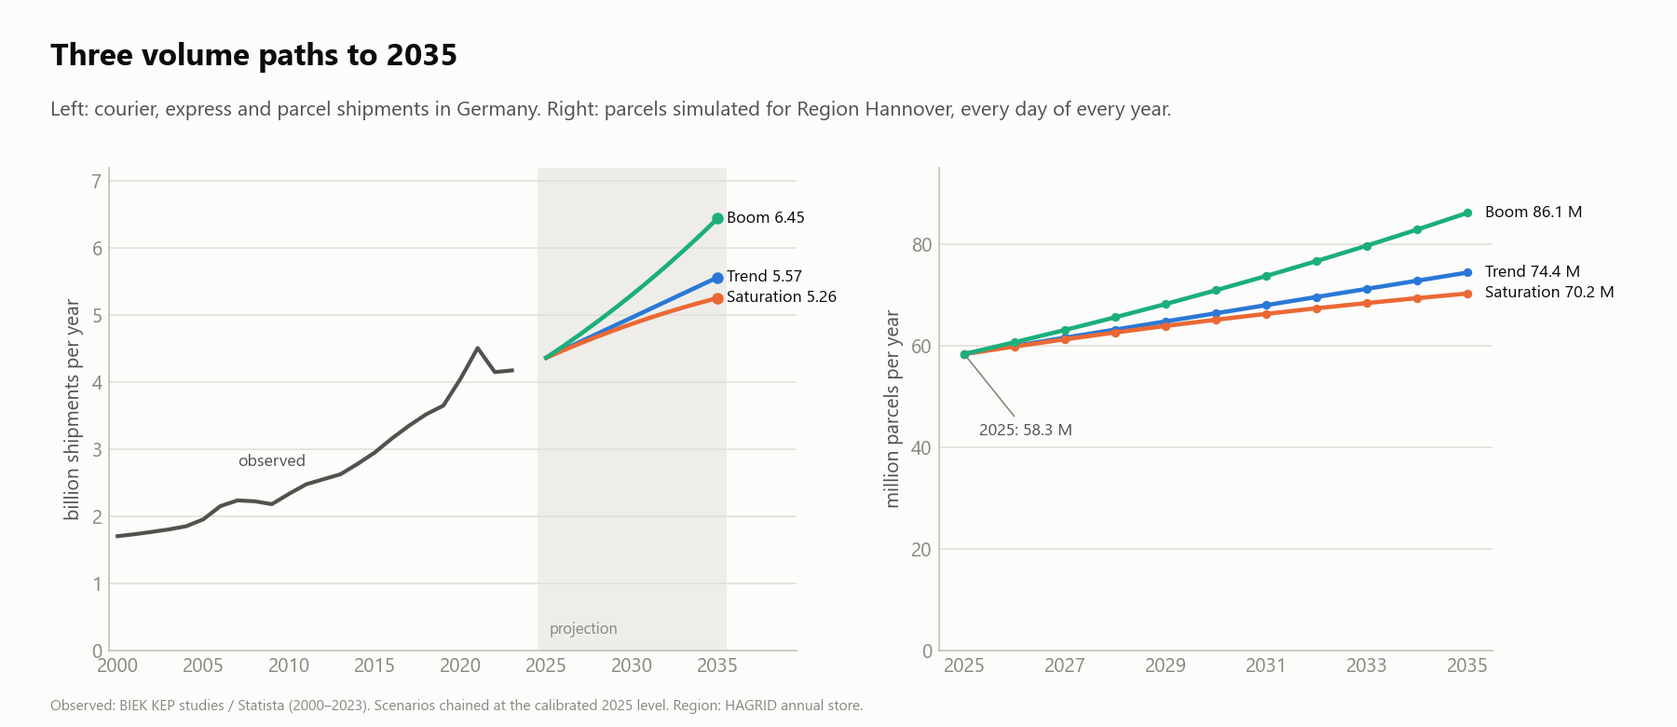
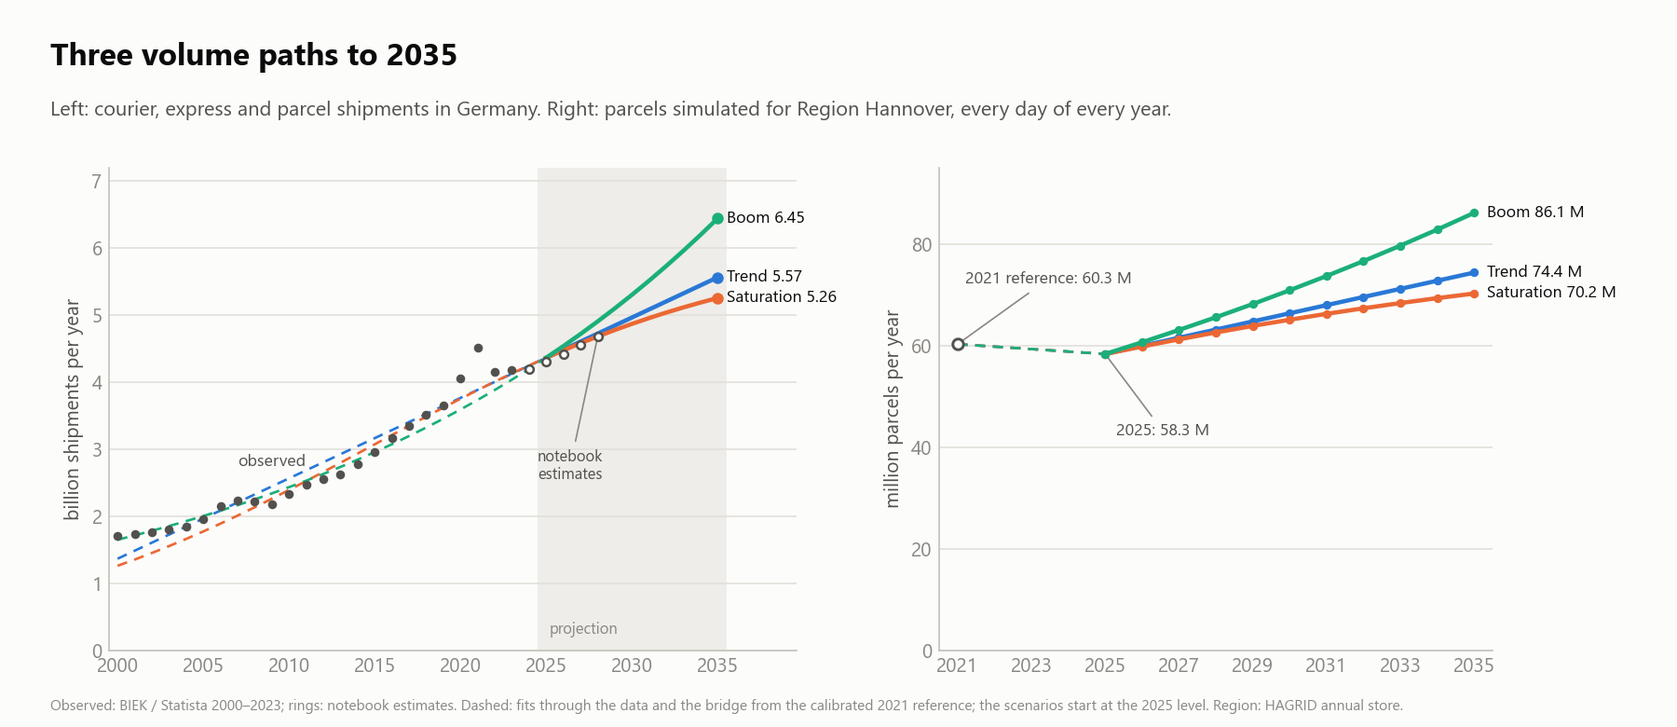
feat(decade-dashboard): show how the volume paths meet the observed data
The national chart showed the observed volumes until 2023 and the scenario
paths from 2025, with nothing in between. It now draws each scenario's fitted
curve through the observed years up to its start (the trend path is the
linear fit itself; chained scenarios follow their candidate curve scaled to
the 2025 level), the notebook estimates 2024-2028 as rings, and the regional
chart starts at the calibrated 2021 reference (60.3 M parcels) with a dashed
bridge to 2025. Payload: national.estimates, scenarios[*].fit and the
scenarios' meta reference. Tables and tooltips list the new values.

The hexagon figure gives the growth figures with one decimal (region +27.5 %,
city +27.9 %, towns +27.1 %; rounded they all read +28 / +28 / +27) and says
that its colours count hexagons: many outer city hexagons grow faster, while
the dense core, a third of the city's parcels, grows slower. README numbers,
figures and dashboard screenshots updated.

diff --git a/hagrid/demand/model/src/hagrid_demand/baseline/templates/decade_dashboard.html b/hagrid/demand/model/src/hagrid_demand/baseline/templates/decade_dashboard.html
@@ -186,12 +186,12 @@ footer{margin-top:44px;padding-top:14px;border-top:1px solid var(--line);color:v
         <div class="fig-head"><div><h3>Germany, billion parcels per year</h3><p class="sub">Observed volumes and the three scenario paths</p></div></div>
         <div class="legend" id="lg-national"></div>
         <div class="chart" id="ch-national"></div>
-        <p class="cap">Dots: observed national volumes (Statista and BIEK, notebook 02). Lines: scenario paths from the first simulated year, labelled with the value in the last year and the compound annual growth rate. The selected scenario is blue; the band marks the selected year. Click a year to select it.</p>
+        <p class="cap">Dots: observed national volumes (Statista and BIEK, notebook 02); rings: the notebook estimates 2024–2028, which the saturation and boom fits include. Dashed: each scenario's fitted curve over the observed years up to its first simulated year, where the path starts; solid: the scenario paths, labelled with the value in the last year and the compound annual growth rate. The selected scenario is blue; the band marks the selected year. Click a year to select it.</p>
       </figure>
       <figure class="panel s5">
         <div class="fig-head"><div><h3>Region Hannover, simulated parcels</h3><p class="sub">Sum of all simulated days per year</p></div></div>
         <div class="chart" id="ch-regional"></div>
-        <p class="cap">The regional volume follows the national path of each scenario (2021 reference scaled by the national ratio), then carriers, days and addresses are drawn.</p>
+        <p class="cap">The ring is the calibrated 2021 reference (LSP street volumes extrapolated to all carriers). From it the regional volume follows the national path of each scenario (dashed: scaled by the national ratio up to the first simulated year), then carriers, days and addresses are drawn.</p>
       </figure>
     </div>
     <details class="tv"><summary>Table: national and regional volume per scenario</summary><div id="tv-growth"></div></details>
@@ -411,7 +411,7 @@ function niceMax(v) { if (!(v > 0)) return 1; const e = Math.pow(10, Math.floor(
 function ticks(max, n) { const st = niceMax(max / n), o = []; for (let v = 0; v <= max + st * 1e-6; v += st) o.push(v); return o; }
 function runs(flags) { const o = []; let a = -1; flags.forEach((f, i) => { if (f && a < 0) a = i; if (!f && a >= 0) { o.push([a, i - 1]); a = -1; } }); if (a >= 0) o.push([a, flags.length - 1]); return o; }
 function barPath(x, y, w, hgt, r) { if (!(hgt > 0)) return ''; r = Math.min(r, w / 2, hgt); return 'M' + x + ',' + (y + hgt) + 'V' + (y + r) + 'Q' + x + ',' + y + ' ' + (x + r) + ',' + y + 'H' + (x + w - r) + 'Q' + (x + w) + ',' + y + ' ' + (x + w) + ',' + (y + r) + 'V' + (y + hgt) + 'Z'; }
-function legend(host, items) { host.replaceChildren(...items.map(it => h('span', {class: 'li'}, h('i', {class: it.kind === 'line' ? 'lk' + (it.dash ? ' dash' : '') : it.kind === 'dot' ? 'dot-k' : 'sw', style: (it.kind === 'line' ? 'border-color:' : 'background:') + it.color}), it.label))); }
+function legend(host, items) { host.replaceChildren(...items.map(it => h('span', {class: 'li'}, h('i', {class: it.kind === 'line' ? 'lk' + (it.dash ? ' dash' : '') : it.kind === 'dot' || it.kind === 'ring' ? 'dot-k' : 'sw', style: it.kind === 'ring' ? 'background:transparent;box-sizing:border-box;border:2px solid ' + it.color : (it.kind === 'line' ? 'border-color:' : 'background:') + it.color}), it.label))); }
 function tableView(host, head, rows, opt = {}) {
   const body = rows.map(r => h('tr', {class: opt.on && opt.on(r) ? 'on' : null}, r.cells.map((c, i) => h('td', {class: i < (opt.left || 1) ? 'l' : (opt.wrap === i ? 'wrap l' : null)}, c))));
   host.replaceChildren(h('div', {class: 'tbl'}, h('table', null, h('thead', null, h('tr', null, head.map((t, i) => h('th', {class: i < (opt.left || 1) || opt.wrap === i ? 'l' : null}, t)))), h('tbody', null, body))));
@@ -615,14 +615,22 @@ function renderHero() {
 function renderGrowth() {
   const nat = D.national, sel = state.scenario, order = NAMES.filter(n => n !== sel).concat([sel]);
   const color = n => n === sel ? 'var(--all)' : 'var(--other-line)';
-  legend($('lg-national'), [{kind: 'dot', color: 'var(--obs)', label: 'observed'}, {kind: 'line', color: 'var(--all)', label: label(sel)}].concat(NAMES.length > 1 ? [{kind: 'line', color: 'var(--other-line)', label: 'other scenarios'}] : []));
-  // national fan: observed anchors and every scenario from the first simulated year on
+  const est = nat.estimates || {years: [], values: []};
+  legend($('lg-national'), [{kind: 'dot', color: 'var(--obs)', label: 'observed'}].concat(est.years.length ? [{kind: 'ring', color: 'var(--obs)', label: 'notebook estimate'}] : [],
+    [{kind: 'line', color: 'var(--all)', label: label(sel)}, {kind: 'line', dash: true, color: 'var(--all)', label: 'fitted through the data'}],
+    NAMES.length > 1 ? [{kind: 'line', color: 'var(--other-line)', label: 'other scenarios'}] : []));
+  // national fan: observed anchors, notebook estimates, every scenario's fit over the observed years (dashed) and its
+  // path from the first simulated year on (solid)
   const box = $('ch-national'), narrow = box.clientWidth < 540, x0 = Math.min(nat.observed.years[0] || Y0, Y0);
-  const paths = {}; NAMES.forEach(n => { const S = nat.scenarios[n]; paths[n] = S ? S.years.map((yr, i) => [yr, S.values[i]]).filter(([yr]) => yr >= Y0 && yr <= YN) : []; });
-  const max = Math.max(1, ...nat.observed.values, ...NAMES.flatMap(n => paths[n].map(p => p[1])));
+  const paths = {}, fits = {}; NAMES.forEach(n => { const S = nat.scenarios[n]; paths[n] = S ? S.years.map((yr, i) => [yr, S.values[i]]).filter(([yr]) => yr >= Y0 && yr <= YN) : [];
+    fits[n] = S && S.fit ? S.fit.years.map((yr, i) => [yr, S.fit.values[i]]).filter(([yr]) => yr >= x0 && yr <= Y0) : []; });
+  const max = Math.max(1, ...nat.observed.values, ...est.values, ...NAMES.flatMap(n => paths[n].concat(fits[n]).map(p => p[1])));
   const F = frame(box, {x0, x1: YN, max, height: 290, margin: {r: narrow ? 50 : 150}, fmt: t => dec(t, 1), label: 'National parcel volume in billions'});
   marker(F, state.year);
+  const pathOf = pts => pts.map((p, i) => (i ? 'L' : 'M') + F.x(p[0]).toFixed(1) + ',' + F.y(p[1]).toFixed(1)).join('');
+  order.forEach(n => { if (fits[n].length > 1) s('path', {d: pathOf(fits[n]), fill: 'none', stroke: color(n), 'stroke-width': n === sel ? 1.8 : 1.4, 'stroke-dasharray': '5 4', 'stroke-linecap': 'round'}, F.v); });
   nat.observed.years.forEach((yr, i) => s('circle', {cx: F.x(yr), cy: F.y(nat.observed.values[i]), r: 4, fill: 'var(--obs)', stroke: 'var(--surface)', 'stroke-width': 2}, F.v));
+  est.years.forEach((yr, i) => { if (yr <= YN) s('circle', {cx: F.x(yr), cy: F.y(est.values[i]), r: 3.5, fill: 'var(--surface)', stroke: 'var(--obs)', 'stroke-width': 1.6}, F.v); });
   order.forEach(n => { const pts = paths[n]; if (!pts.length) return; const on = n === sel;
     s('path', {d: pts.map((p, i) => (i ? 'L' : 'M') + F.x(p[0]).toFixed(1) + ',' + F.y(p[1]).toFixed(1)).join(''), fill: 'none', stroke: color(n), 'stroke-width': on ? 2.5 : 2, 'stroke-linejoin': 'round', 'stroke-linecap': 'round'}, F.v);
     const last = pts[pts.length - 1]; s('circle', {cx: F.x(last[0]), cy: F.y(last[1]), r: 4, fill: color(n), stroke: 'var(--surface)', 'stroke-width': 2}, F.v); });
@@ -630,23 +638,33 @@ function renderGrowth() {
     return {y: F.y(last[1]), text: narrow ? dec(last[1], 2) : label(n) + ' · ' + dec(last[1], 2) + ' · ' + signed(g && g.cagr) + '/yr', priority: n === sel ? 2 : 1, strong: n === sel}; }));
   const span = []; for (let yr = x0; yr <= YN; yr++) span.push(yr);
   crosshair(F, span, (t, yr) => { t.append(...tH(String(yr), 'billion parcels in Germany')); const o = nat.observed.years.indexOf(yr); if (o >= 0) t.appendChild(tR(dec(nat.observed.values[o], 3), 'observed', 'var(--obs)'));
+    const e = est.years.indexOf(yr); if (e >= 0) t.appendChild(tR(dec(est.values[e], 3), 'notebook estimate', 'var(--obs)'));
+    const f = fits[sel].find(q => q[0] === yr); if (f && yr < Y0) t.appendChild(tR(dec(f[1], 3), label(sel) + ' fit', color(sel)));
     NAMES.forEach(n => { const p = paths[n].find(q => q[0] === yr); if (p) t.appendChild(tR(dec(p[1], 3), label(n), color(n))); }); });
-  // regional fan: simulated parcels per scenario
+  // regional fan: the calibrated reference year, bridged (dashed) to every scenario's simulated parcels
   const rb = $('ch-regional'), rnarrow = rb.clientWidth < 540, reg = {}; NAMES.forEach(n => { reg[n] = series(n, A => A.parcels); });
-  const R = frame(rb, {max: Math.max(1, ...NAMES.flatMap(n => reg[n].filter(ok))), height: 290, margin: {r: rnarrow ? 50 : 132}, fmt: short, label: 'Simulated parcels in Region Hannover'});
+  const ref = (scenario(sel) || {}).reference, rx0 = ref && ref.year < Y0 ? ref.year : Y0;
+  const R = frame(rb, {x0: rx0, max: Math.max(1, ...NAMES.flatMap(n => reg[n].filter(ok)), ref ? ref.parcels : 0), height: 290, margin: {r: rnarrow ? 50 : 132}, fmt: short, label: 'Simulated parcels in Region Hannover'});
   marker(R, state.year);
+  if (ref && rx0 < Y0) {
+    order.forEach(n => { if (ok(reg[n][0])) s('path', {d: 'M' + R.x(ref.year).toFixed(1) + ',' + R.y(ref.parcels).toFixed(1) + 'L' + R.x(Y0).toFixed(1) + ',' + R.y(reg[n][0]).toFixed(1), fill: 'none', stroke: color(n), 'stroke-width': n === sel ? 1.8 : 1.4, 'stroke-dasharray': '5 4', 'stroke-linecap': 'round'}, R.v); });
+    s('circle', {cx: R.x(ref.year), cy: R.y(ref.parcels), r: 4.5, fill: 'var(--surface)', stroke: 'var(--obs)', 'stroke-width': 2}, R.v);
+    s('text', {x: R.x(ref.year) + 8, y: R.y(ref.parcels) - 9, class: 'lbl', text: ref.year + ' reference ' + short(ref.parcels)}, R.v);
+  }
   order.forEach(n => { const on = n === sel; s('path', {d: linePath(R, reg[n]), fill: 'none', stroke: color(n), 'stroke-width': on ? 2.5 : 2, 'stroke-linejoin': 'round', 'stroke-linecap': 'round'}, R.v);
     reg[n].forEach((v, i) => { if (ok(v) && (YEARS[i] === state.year || i === reg[n].length - 1)) s('circle', {cx: R.x(YEARS[i]), cy: R.y(v), r: 4, fill: color(n), stroke: 'var(--surface)', 'stroke-width': 2}, R.v); }); });
   endLabels(R, NAMES.map(n => { const i = reg[n].map(ok).lastIndexOf(true), g = scenario(n).regional; if (i < 0) return null;
     return {y: R.y(reg[n][i]), text: rnarrow ? label(n) + ' ' + short(reg[n][i]) : label(n) + ' · ' + short(reg[n][i]) + ' · ' + signed(g && g.cagr) + '/yr', priority: n === sel ? 2 : 1, strong: n === sel}; }));
-  crosshair(R, YEARS, (t, yr) => { const i = YEARS.indexOf(yr); t.append(...tH(String(yr), 'simulated parcels')); NAMES.forEach(n => t.appendChild(tR(ok(reg[n][i]) ? int(reg[n][i]) : 'not simulated', label(n), color(n)))); });
+  crosshair(R, (ref && rx0 < Y0 ? [ref.year] : []).concat(YEARS), (t, yr) => { const i = YEARS.indexOf(yr);
+    if (ref && yr === ref.year && i < 0) { t.append(...tH(String(yr), 'calibrated reference year')); t.appendChild(tR(int(ref.parcels), 'LSP street volumes, all carriers', 'var(--obs)')); return; }
+    t.append(...tH(String(yr), 'simulated parcels')); NAMES.forEach(n => t.appendChild(tR(ok(reg[n][i]) ? int(reg[n][i]) : 'not simulated', label(n), color(n)))); });
   // finding and table
   const gs = SCEN.filter(item => item.national);
   $('f-growth').replaceChildren('Nationally the scenarios reach ', h('b', {text: gs.map(item => dec(item.national.to, 2) + ' billion (' + item.label + ')').join(', ').replace(/, ([^,]*)$/, ' and $1')}), ' parcels in ' + YN + ', ' +
     gs.map(item => signed(item.national.cagr) + ' a year').join(' / ') + ' from ' + (gs[0] ? gs[0].national.from_year : Y0) + '. In the region the ' + label(sel) + ' scenario grows from ' + short(reg[sel][0]) + ' to ' + short(reg[sel][reg[sel].length - 1]) + ' parcels.');
-  const allYears = Array.from(new Set(nat.observed.years.filter(yr => yr >= 2019).concat(YEARS))).sort((a, b) => a - b);
-  tableView($('tv-growth'), ['Year', 'Observed (bn)'].concat(NAMES.map(n => label(n) + ' national (bn)'), NAMES.map(n => label(n) + ' region')),
-    allYears.map(yr => ({yr, cells: [String(yr), dec(nat.observed.values[nat.observed.years.indexOf(yr)], 3)].concat(NAMES.map(n => { const p = paths[n].find(q => q[0] === yr); return p ? dec(p[1], 3) : '–'; }), NAMES.map(n => int(reg[n][YEARS.indexOf(yr)])))})),
+  const allYears = Array.from(new Set(nat.observed.years.filter(yr => yr >= 2019).concat(est.years.filter(yr => yr <= YN), YEARS))).sort((a, b) => a - b);
+  tableView($('tv-growth'), ['Year', 'Observed (bn)', 'Notebook estimate (bn)'].concat(NAMES.map(n => label(n) + ' national (bn)'), NAMES.map(n => label(n) + ' region')),
+    allYears.map(yr => ({yr, cells: [String(yr), dec(nat.observed.values[nat.observed.years.indexOf(yr)], 3), est.years.includes(yr) ? dec(est.values[est.years.indexOf(yr)], 3) : '–'].concat(NAMES.map(n => { const p = paths[n].find(q => q[0] === yr); return p ? dec(p[1], 3) : '–'; }), NAMES.map(n => int(reg[n][YEARS.indexOf(yr)])))})),
     {on: r => r.yr === state.year});
 }
 

diff --git a/docs/images/demand/make_figures.py b/docs/images/demand/make_figures.py
@@ -187,8 +187,8 @@ def save(fig, out: Path, name: str, mode: str) -> Path:
     return path
 
 
-def signed(value: float) -> str:
-    return f"{value * 100:+.0f} %"
+def signed(value: float, digits: int = 0) -> str:
+    return f"{value * 100:+.{digits}f} %"
 
 
 # --- figures ----------------------------------------------------------------------------------------------------------
@@ -212,7 +212,7 @@ def hexagon_change(payload: dict, region: Region, theme: dict, out: Path, mode: 
     height = 7.8
     fig = figure(height, "Where parcel demand grows until 2035",
                  f"Scenario {LABEL.get(name, name)} with land use · expected parcels per delivery day {first} → {last} in 800 m "
-                 f"hexagons, compared with the regional growth of {signed(growth - 1)}", theme)
+                 f"hexagons, compared with the regional growth of {signed(growth - 1, 1)}", theme)
     bottom, span = band(height, 1.05, .35)
     ax = fig.add_axes([.01, bottom, .67, span])
     region.districts.plot(ax=ax, facecolor=theme["land"], edgecolor="none", zorder=1)
@@ -229,12 +229,13 @@ def hexagon_change(payload: dict, region: Region, theme: dict, out: Path, mode: 
         city, umland = kinds == "city", kinds == "umland"
         moved = plain[city].sum() - total[last][city].sum()         # > 0: land use moves parcels out of the city
         direction = "from the city to the towns" if moved >= 0 else "from the towns to the city"
-        rows = [(signed(growth - 1), "Region Hannover"),
-                (signed(total[last][city].sum() / total[first][city].sum() - 1), "City of Hannover"),
-                (signed(total[last][umland].sum() / total[first][umland].sum() - 1), "20 surrounding towns"),
+        rows = [(signed(growth - 1, 1), "Region Hannover"),
+                (signed(total[last][city].sum() / total[first][city].sum() - 1, 1), "City of Hannover"),
+                (signed(total[last][umland].sum() / total[first][umland].sum() - 1, 1), "20 surrounding towns"),
                 (f"{abs(moved):,.0f}", f"parcels per day that land use\nshifts {direction}")]
         key_figures(panel, y - .05, rows, theme, f"Parcels per delivery day {first} → {last}")
-    source(fig, "HAGRID demand model · districts of the population forecast 2025–2035 · © OpenStreetMap contributors", theme)
+    source(fig, "Colours count hexagons; the growth figures weight them by parcels. HAGRID demand model · districts of the "
+           "population forecast 2025–2035 · © OpenStreetMap contributors", theme)
     return save(fig, out, "hexagon-change", mode)
 
 
@@ -246,29 +247,43 @@ def volume_scenarios(payload: dict, theme: dict, out: Path, mode: str) -> Path:
                  "Right: parcels simulated for Region Hannover, every day of every year.", theme)
     bottom, span = band(height, 1.2, .55)
     left, right = fig.add_axes([.065, bottom, .41, span]), fig.add_axes([.56, bottom, .33, span])
-    observed = national["observed"]
+    observed, estimates = national["observed"], national.get("estimates") or {"years": [], "values": []}
     left.axvspan(years[0] - .5, years[-1] + .5, color=theme["grid"], alpha=.5, linewidth=0, zorder=0)
-    left.plot(observed["years"], observed["values"], color=theme["ink2"], linewidth=2, zorder=3)
+    left.plot(observed["years"], observed["values"], "o", color=theme["ink2"], markersize=3.6, zorder=6)
+    left.plot(estimates["years"], estimates["values"], "o", markerfacecolor=theme["surface"], markeredgecolor=theme["ink2"],
+              markersize=4.2, markeredgewidth=1.2, linestyle="none", zorder=6)
     left.text(2009, 2.75, "observed", color=theme["ink2"], fontsize=8.5, ha="center")
+    if estimates["years"]:
+        left.annotate("notebook\nestimates", (estimates["years"][-1], estimates["values"][-1]), xytext=(2026.4, 2.55),
+                      color=theme["ink2"], fontsize=8, ha="center",
+                      arrowprops={"arrowstyle": "-", "color": theme["muted"], "linewidth": .8})
     left.text(years[0] + .2, .25, "projection", color=theme["muted"], fontsize=8)
+    reference = next((item.get("reference") for item in payload["meta"]["scenarios"] if item.get("reference")), None)
     for index, (key, label) in enumerate(SCENARIOS):
         series = national["scenarios"].get(key)
         if not series:
             continue
         xs, ys = zip(*[(year, value) for year, value in zip(series["years"], series["values"]) if year >= years[0]])
         color = theme["series"][index]
+        fit = series.get("fit")
+        if fit:
+            left.plot(fit["years"], fit["values"], color=color, linewidth=1.3, linestyle=(0, (4, 3)), zorder=3)
         left.plot(xs, ys, color=color, linewidth=2.2, zorder=4)
         left.plot([xs[-1]], [ys[-1]], "o", color=color, markersize=5, zorder=5)
         left.text(xs[-1] + .5, ys[-1], f"{label} {ys[-1]:.2f}", color=theme["ink"], fontsize=8.5, va="center")
         values = [annual[key][str(year)]["parcels"] / 1e6 if (annual.get(key) or {}).get(str(year)) else np.nan for year in years]
+        if reference:
+            right.plot([reference["year"], years[0]], [reference["parcels"] / 1e6, values[0]], color=color, linewidth=1.3,
+                       linestyle=(0, (4, 3)), zorder=3)
         right.plot(years, values, color=color, linewidth=2.2, marker="o", markersize=3.5, zorder=4)
         right.text(years[-1] + .35, values[-1], f"{label} {values[-1]:.1f} M", color=theme["ink"], fontsize=8.5, va="center")
     left.set_xlim(1999.5, years[-1] + 4.6)
     left.set_xticks([2000, 2005, 2010, 2015, 2020, 2025, 2030, 2035])
     left.set_ylim(0, 7.2)
     left.set_ylabel("billion shipments per year")
-    right.set_xlim(years[0] - .5, years[-1] + .5)
-    year_axis(right, years)
+    first = reference["year"] if reference else years[0]
+    right.set_xlim(first - .5, years[-1] + .5)
+    year_axis(right, list(range(first, years[-1] + 1)))
     right.set_ylim(0, 95)
     right.set_ylabel("million parcels per year")
     right.set_clip_on(False)
@@ -279,8 +294,15 @@ def volume_scenarios(payload: dict, theme: dict, out: Path, mode: str) -> Path:
     start = annual[SCENARIOS[0][0]][str(years[0])]["parcels"] / 1e6
     right.annotate(f"{years[0]}: {start:.1f} M", (years[0], start), xytext=(years[0] + .3, start - 16), color=theme["ink2"], fontsize=8.5,
                    arrowprops={"arrowstyle": "-", "color": theme["muted"], "linewidth": .8})
-    source(fig, "Observed: BIEK KEP studies / Statista (2000–2023). Scenarios chained at the calibrated 2025 level. "
-           "Region: HAGRID annual store.", theme)
+    if reference:
+        value = reference["parcels"] / 1e6
+        right.plot([reference["year"]], [value], "o", markerfacecolor=theme["surface"], markeredgecolor=theme["ink2"],
+                   markersize=5.5, markeredgewidth=1.4, zorder=6)
+        right.annotate(f"{reference['year']} reference: {value:.1f} M", (reference["year"], value),
+                       xytext=(reference["year"] + .2, value + 12), color=theme["ink2"], fontsize=8.5,
+                       arrowprops={"arrowstyle": "-", "color": theme["muted"], "linewidth": .8})
+    source(fig, "Observed: BIEK / Statista 2000–2023; rings: notebook estimates. Dashed: fits through the data and the bridge "
+           "from the calibrated 2021 reference; the scenarios start at the 2025 level. Region: HAGRID annual store.", theme)
     return save(fig, out, "volume-scenarios", mode)
 
 

diff --git a/hagrid/demand/model/src/hagrid_demand/baseline/decade_dashboard.py b/hagrid/demand/model/src/hagrid_demand/baseline/decade_dashboard.py
@@ -298,12 +298,39 @@ def _carriers(loaded: dict[str, dict | None], primary: str) -> list[str]:
     return sorted(present, key=lambda carrier: (-shares.get(carrier, 0.), carrier))
 
 
+def _fit_history(inputs: dict, config: dict, scenario: dict) -> dict | None:
+    """A scenario's fitted curve from the first observed year to its start year, in billion parcels.
+
+    The trend path is the linear fit of the observed volumes itself; a chained scenario follows its candidate curve
+    scaled to the level of its start year (``apply_volume_scenario``), so the chart shows how each path meets the data.
+    """
+    from .series import _volume
+
+    starts = [year for year, status in zip(scenario["years"], scenario["status"]) if status != "observed"]
+    if not starts:
+        return None
+    start = starts[0]
+    block = (config or {}).get("volume_scenario")
+    policy = block["policy"] if isinstance(block, dict) else (config or {}).get("volume_fit_policy", "observed_only")
+    curve = block["curve"] if isinstance(block, dict) else "linear"
+    first = min(int(row["year"]) for row in inputs["volume_inputs"]["anchors"])
+    frame = _volume(inputs, list(range(first, start + 1)), policy).set_index("year")[curve]
+    if not np.isfinite(frame.to_numpy(float)).all() or frame.loc[start] <= 0:
+        return None
+    level = scenario["values"][scenario["years"].index(start)] / float(frame.loc[start])
+    return {"years": [int(year) for year in frame.index], "values": [round(float(value) * level, 4) for value in frame],
+            "curve": curve}
+
+
 def _national(loaded: dict[str, dict | None]) -> dict:
-    """Observed national anchors (2000-2023) and every scenario's national volume, in billion parcels per year."""
+    """Observed national anchors (2000-2023), the notebook estimates (2024-2028), every scenario's national volume and
+    its fitted curve over the observed years, in billion parcels per year."""
     from .sources import packaged_series_inputs
 
-    anchors = packaged_series_inputs()["volume_inputs"]["anchors"]
+    inputs = packaged_series_inputs()
+    anchors = inputs["volume_inputs"]["anchors"]
     observed = {int(row["year"]): float(row["value"]) for row in anchors if row.get("status") == "observed"}
+    estimates = {int(row["year"]): float(row["value"]) for row in anchors if row.get("status") == "legacy_estimate"}
     scenarios = {}
     for name, run in loaded.items():
         volume = None if run is None else run["volume"]
@@ -316,9 +343,11 @@ def _national(loaded: dict[str, dict | None]) -> dict:
             observed.setdefault(int(row.year), float(row.value))
         scenarios[name] = {"years": volume.year.astype(int).tolist(), "values": (volume.value / 1e9).round(4).tolist(),
                            "status": volume.status.astype(str).tolist()}
+        scenarios[name]["fit"] = _fit_history(inputs, run.get("config", {}), scenarios[name])
     years = sorted(observed)
     return {"unit": "billion parcels per year",
             "observed": {"years": years, "values": [round(observed[year] / 1e9, 4) for year in years]},
+            "estimates": {"years": sorted(estimates), "values": [round(estimates[year] / 1e9, 4) for year in sorted(estimates)]},
             "scenarios": scenarios}
 
 
@@ -528,6 +557,16 @@ def _growth(years: list[int], values: dict[int, float]) -> dict | None:
             "cagr": _cagr(values[first], values[last], last - first)}
 
 
+def _regional_reference(path: Path) -> dict | None:
+    """The calibrated regional volume of the reference year (``reference_regional_annual.json``), if the run has it."""
+    for candidate in (path / "reference" / "reference_regional_annual.json", path / "reference_regional_annual.json"):
+        if candidate.is_file():
+            data = json.loads(candidate.read_text(encoding="utf-8"))
+            if np.isfinite(float(data.get("regional_annual", np.nan))) and data.get("year") is not None:
+                return {"year": int(data["year"]), "parcels": int(round(float(data["regional_annual"])))}
+    return None
+
+
 def _scenario_meta(name: str, run: dict | None, path: Path, years: list[int], present: list[int], annual: dict,
                    national: dict | None) -> dict:
     """Name, label, run id, years, national and regional growth, and the network-growth status of one scenario."""
@@ -540,6 +579,7 @@ def _scenario_meta(name: str, run: dict | None, path: Path, years: list[int], pr
             "definition": _definition(run.get("config", {})),
             "national": _growth(present, dict(zip(national["years"], national["values"])) if national else {}),
             "regional": _growth(present, {year: annual[str(year)]["parcels"] for year in present}),
+            "reference": _regional_reference(path),
             "network_status": growth, "shortfall": _shortfall(growth) if growth else 0,
             "assumptions": list(run.get("config", {}).get("assumptions", []))}
 

diff --git a/hagrid/demand/model/tests/test_decade_dashboard.py b/hagrid/demand/model/tests/test_decade_dashboard.py
@@ -61,6 +61,34 @@ def test_decade_payload_shape(payload, runs):
     assert payload["national"]["scenarios"]["trend"]["values"][0] == pytest.approx(4.51)
 
 
+def test_decade_payload_shows_how_each_path_meets_the_observed_years(payload):
+    from hagrid_demand.baseline.sources import packaged_series_inputs
+
+    national = payload["national"]
+    assert national["estimates"]["years"] == [2024, 2025, 2026, 2027, 2028]
+    assert national["estimates"]["values"][0] == pytest.approx(4.2)
+    anchors = [row for row in packaged_series_inputs()["volume_inputs"]["anchors"] if row["status"] == "observed"]
+    line = np.polyfit([row["year"] for row in anchors], [row["value"] for row in anchors], 1)
+    for name in ("trend", "boom"):
+        scenario = national["scenarios"][name]
+        start = scenario["years"][scenario["status"].index(next(s for s in scenario["status"] if s != "observed"))]
+        fit = scenario["fit"]
+        assert fit["years"][0] == 2000 and fit["years"][-1] == start          # through the observed years to the start
+        assert fit["values"][-1] == pytest.approx(scenario["values"][scenario["years"].index(start)], abs=1e-4)
+    trend = national["scenarios"]["trend"]["fit"]
+    assert trend["values"][trend["years"].index(2010)] == pytest.approx(np.polyval(line, 2010) / 1e9, abs=1e-4)
+
+
+def test_decade_payload_carries_the_regional_reference_year(tmp_path):
+    from hagrid_demand.baseline.decade_dashboard import build_decade_dashboard_data
+
+    run = write_decade_run(tmp_path, "decade-trend")
+    (run / "reference").mkdir(exist_ok=True)
+    (run / "reference" / "reference_regional_annual.json").write_text(json.dumps({"regional_annual": 6.0e7, "year": 2021}))
+    meta = build_decade_dashboard_data({"trend": run})["meta"]["scenarios"][0]
+    assert meta["reference"] == {"year": 2021, "parcels": 60_000_000}
+
+
 def test_decade_payload_channels_add_up(payload, runs):
     year = payload["annual"]["trend"]["2026"]
     stored = _stored_by_point(runs["trend"], 2026).groupby("kind").stored.sum()

diff --git a/README.md b/README.md
@@ -6,7 +6,7 @@ demand-responsive transport (DRT). Three research strands share one core:
 
 | Strand | Question | Method | Headline |
 |---|---|---|---|
-| **[Hannover parcel demand 2025–2035](#6-hannover-demand-model-20252035)** | Where and when do parcels arise in the next decade? | Street-anchored demand model for every day of 2025–2035, three volume scenarios, land-use dynamics, a growing pickup network | 58 M parcels a year in 2025, 74 M in 2035 (trend); city and towns grow alike (+28 / +27 %) |
+| **[Hannover parcel demand 2025–2035](#6-hannover-demand-model-20252035)** | Where and when do parcels arise in the next decade? | Street-anchored demand model for every day of 2025–2035, three volume scenarios, land-use dynamics, a growing pickup network | 58 M parcels a year in 2025, 74 M in 2035 (trend); city and towns grow alike (+27.9 / +27.1 %) |
 | **[Last-mile simulation and transport geography](#7-last-mile-simulation-and-batch-evaluation-hannover)** | What does a parcel cost to deliver, and where do the vans emit? | jsprit tours of all seven carriers simulated in MATSim; batch evaluation of delivery strategies and a vehicle-capacity sweep | €1.74 per parcel in the city, €2.88 in rural areas; the suburbs carry 60 % of the van kilometres and of the CO₂ |
 | **[Lausitz: integrated passenger and parcel DRT](#8-lausitz-integrated-passenger-and-parcel-drt-hoyerswerda)** | Can one DRT fleet carry passengers and parcels in a rural region? | 100 % matsim-lausitz scenario of Hoyerswerda: baseline versus cargo hitching (1c) and capsule swap (1d) | At the same passenger service, cargo hitching needs about 138 vehicles and emits the same CO₂e as a DRT fleet plus separate delivery vans |
 
@@ -373,8 +373,9 @@ reaches 70 million parcels a year in 2033, saturation in 2035 and boom in 2030; 
 
 ### 6.4 Land use: where demand moves
 
-The hexagon map at the top shows the trend scenario against its regional growth of +28 %: the city of Hannover grows by
-+28 %, the 20 surrounding towns by +27 %. By 2035 land use moves about 440 parcels a day from the towns to the city: the
+The hexagon map at the top shows the trend scenario against its regional growth of +27.5 %: the city of Hannover grows by
++27.9 %, the 20 surrounding towns by +27.1 %. Its colours count hexagons: many outer city hexagons grow faster than the
+region, while the dense inner core, which carries a third of the city's parcels, grows slower. By 2035 land use moves about 440 parcels a day from the towns to the city: the
 city's share of the demand rises from 44.1 % to about 44.3 %, and the two variants move it to 44.6 % (infill) or 43.9 %
 (suburban). The official age structure decides this: the towns lose many 45- to 64-year-olds with a high online
 propensity (−11.8 % by 2034), the city only −4.8 %, while both gain 65- to 74-year-olds who keep their online habit.
